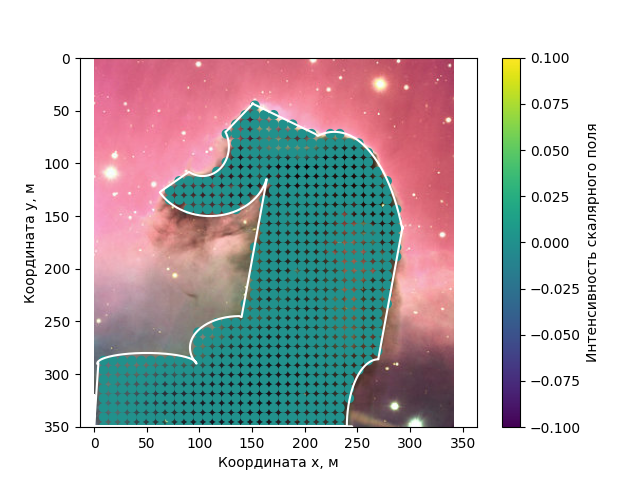
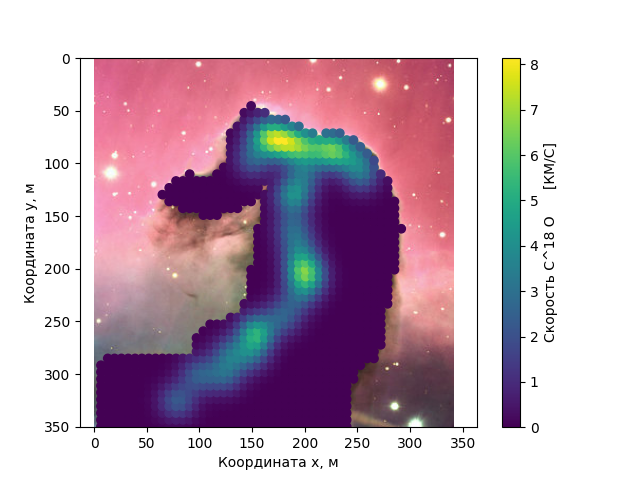
2312321321

diff --git a/homework_horse_nebula_scalar_fields.py b/homework_horse_nebula_scalar_fields.py
@@ -112,7 +112,7 @@ spline_curve = interpolate.splev(figure_spline_part, spline_coords)
 
 plt.axis('equal')
 plt.xlim(0, 350)
-plt.plot(spline_curve[0], spline_curve[1], color='w')
+#plt.plot(spline_curve[0], spline_curve[1], color='w')
 
 curve_coords = []
 points_coords = []
@@ -121,7 +121,7 @@ for i in range(len(spline_curve[0])):
     curve_coords.append([spline_curve[0][i], spline_curve[1][i]])
 
 polygon = geom.Polygon(curve_coords)
-points_number_per_side = 65
+points_number_per_side = 55
 x_pictures_limits = [0, 350]
 y_pictures_limits = [350, 0]
 
@@ -135,18 +135,29 @@ for x_point_coord in np.linspace(*x_pictures_limits, points_number_per_side):
 x_p = np.array(points_coords[0::2])
 y_p = np.array(points_coords[1::2])
 
-def bell_function(x, y, intensity=1, dec_rate=[0.005, 0.005]):
+def bell_function(x, y, intensity=1, dec_rate=[0.5, 0.5]):
     scalar_field = intensity*np.exp(-dec_rate[0] * x**2 - dec_rate[1] * y**2)
     return scalar_field
 
-intensity_centrums_x = [160, 240]
-intensity_centrums_y = [75, 100]
-intensity_values = [100, 60]
+intensity_centrums_x = [160, 170, 180, 190, 200, 215, 230, 250,                       #upper part
+                        190, 190, 200, 195, 205, 195,                                 #middle part 
+                        155,                                                          #lower part
+                        100, 130, 125, 150, 180, 190, 200, 152, 255, 80]              #weak connections
+
+intensity_centrums_y = [72, 75, 78, 81, 84, 85, 87, 95,                               #upper part
+                        130, 130, 200, 180, 210, 225,                                 #middle part 
+                        260,                                                          #lower part
+                        300, 280, 300, 280, 245, 160, 110, 95, 110, 325]              #weak connections
+
+intensity_values = [60, 90, 80, 70, 70, 60, 130, 60,                                  #upper part
+                    70, 30, 120, 60, 60, 50,                                          #middle part 
+                    125,                                                              #lower part
+                    60, 60, 60, 60, 60, 60, 60, 60, 60, 60]                           #weak connections
 
 def scalar_function(x, y, int_cen_x, int_cen_y, int_vel):
     scalar_field = 0
     for i in range(0, len(int_cen_x)):
-        scalar_field += int_vel[i] * bell_function(x - int_cen_x[i], y - int_cen_y[i], 30, [100, 100])
+        scalar_field += int_vel[i] * bell_function(x - int_cen_x[i], y - int_cen_y[i], 0.0372, [0.0035, 0.0035])
     return scalar_field
 
 scalar_fields = []
@@ -160,5 +171,5 @@ ax.set_xlabel('Координата x, м')
 ax.set_ylabel('Координата y, м')
 
 cbar = fig.colorbar(sc_plot)
-cbar.set_label('Интенсивность скалярного поля')
+cbar.set_label('Скорость C^18 O      [КМ/С]')
 plt.savefig("homework_horse_nebula_scalar_fields.png")
